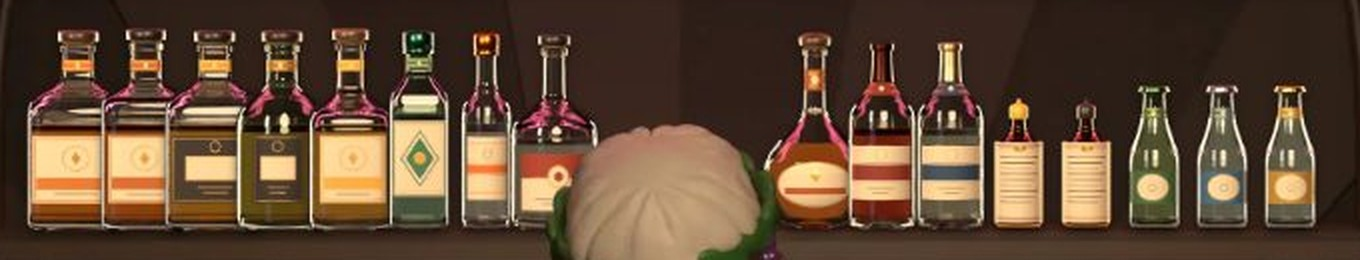
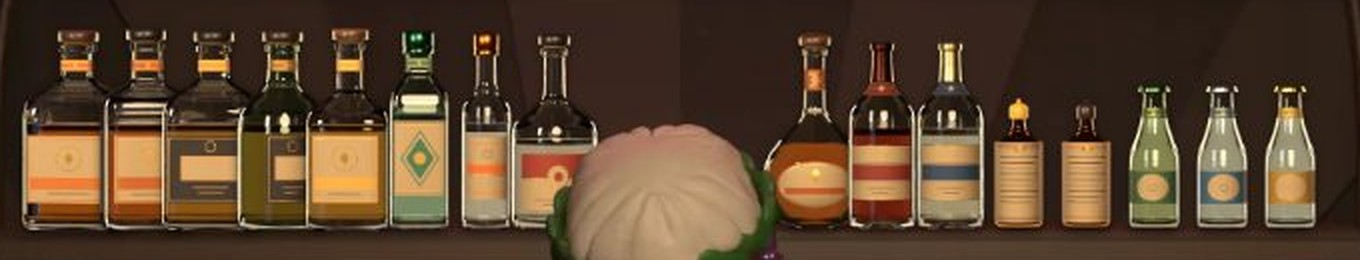
Prototype E: re-render the backgrounds with the fixed items' shadows, reshoot, and before/after crops
Claude-Session: https://claude.ai/code/session_017R8H9itpLZ3XvmvTMCx8dX

diff --git a/prototypes/e-rendered/layers.js b/prototypes/e-rendered/layers.js
@@ -359,4 +359,4 @@ const LAYERS = {
   "quick": false
  }
 };
-const RENDER_LOG = [{"layer": "panther_preview", "px": [1313, 1352], "samples": 48, "seconds": 33.8}, {"layer": "bg_bar", "px": [2000, 2000], "samples": 64, "seconds": 311.0}, {"layer": "bg_sign", "px": [1480, 460], "samples": 64, "seconds": 63.4}, {"layer": "bg_shelf", "px": [1672, 1065], "samples": 64, "seconds": 178.5}, {"layer": "bg_mid", "px": [2222, 1232], "samples": 64, "seconds": 243.6}, {"layer": "bg_menu", "px": [1380, 1080], "samples": 48, "seconds": 108.7}, {"layer": "bg_sign_off", "px": [1480, 460], "samples": 64, "seconds": 54.1}, {"layer": "b_bourbon", "px": [182, 292], "samples": 160, "seconds": 17.4}, {"layer": "b_rye", "px": [158, 294], "samples": 160, "seconds": 9.2}, {"layer": "b_blended_scotch", "px": [169, 292], "samples": 160, "seconds": 16.6}, {"layer": "b_islay_scotch", "px": [174, 292], "samples": 160, "seconds": 8.1}, {"layer": "b_irish_whiskey", "px": [156, 294], "samples": 160, "seconds": 11.4}, {"layer": "b_london_dry_gin", "px": [112, 289], "samples": 160, "seconds": 7.6}, {"layer": "b_white_rum", "px": [156, 285], "samples": 160, "seconds": 7.4}, {"layer": "b_tequila", "px": [129, 294], "samples": 160, "seconds": 10.1}, {"layer": "b_vodka", "px": [103, 286], "samples": 160, "seconds": 7.9}, {"layer": "b_cognac", "px": [176, 289], "samples": 160, "seconds": 7.1}, {"layer": "b_sweet_vermouth", "px": [123, 274], "samples": 160, "seconds": 8.9}, {"layer": "b_dry_vermouth", "px": [122, 274], "samples": 160, "seconds": 8.9}, {"layer": "b_campari", "px": [123, 274], "samples": 160, "seconds": 6.0}, {"layer": "b_aperol", "px": [125, 274], "samples": 160, "seconds": 6.0}, {"layer": "b_amaro_nonino", "px": [124, 274], "samples": 160, "seconds": 5.9}, {"layer": "b_triple_sec", "px": [100, 286], "samples": 160, "seconds": 5.3}, {"layer": "b_amaretto", "px": [170, 289], "samples": 160, "seconds": 14.7}, {"layer": "b_cherry_heering", "px": [178, 289], "samples": 160, "seconds": 6.4}, {"layer": "b_ginger_wine", "px": [122, 274], "samples": 160, "seconds": 5.7}, {"layer": "b_coffee_liqueur", "px": [154, 285], "samples": 160, "seconds": 13.0}, {"layer": "b_angostura_bitters", "px": [96, 201], "samples": 160, "seconds": 2.7}, {"layer": "b_orange_bitters", "px": [95, 201], "samples": 160, "seconds": 2.2}, {"layer": "b_ginger_ale", "px": [101, 218], "samples": 160, "seconds": 4.2}, {"layer": "b_ginger_beer", "px": [98, 218], "samples": 160, "seconds": 3.9}, {"layer": "b_soda_water", "px": [102, 218], "samples": 160, "seconds": 8.3}, {"layer": "b_tonic_water", "px": [100, 218], "samples": 160, "seconds": 8.2}, {"layer": "t_menu", "px": [814, 833], "samples": 64, "seconds": 47.2}, {"layer": "t_honey", "px": [371, 570], "samples": 64, "seconds": 24.7}, {"layer": "t_dice", "px": [451, 310], "samples": 64, "seconds": 10.1}, {"layer": "t_panther", "px": [788, 811], "samples": 64, "seconds": 28.7}];
+const RENDER_LOG = [{"layer": "panther_preview", "px": [1313, 1352], "samples": 48, "seconds": 33.8}, {"layer": "b_bourbon", "px": [182, 292], "samples": 160, "seconds": 17.4}, {"layer": "b_rye", "px": [158, 294], "samples": 160, "seconds": 9.2}, {"layer": "b_blended_scotch", "px": [169, 292], "samples": 160, "seconds": 16.6}, {"layer": "b_islay_scotch", "px": [174, 292], "samples": 160, "seconds": 8.1}, {"layer": "b_irish_whiskey", "px": [156, 294], "samples": 160, "seconds": 11.4}, {"layer": "b_london_dry_gin", "px": [112, 289], "samples": 160, "seconds": 7.6}, {"layer": "b_white_rum", "px": [156, 285], "samples": 160, "seconds": 7.4}, {"layer": "b_tequila", "px": [129, 294], "samples": 160, "seconds": 10.1}, {"layer": "b_vodka", "px": [103, 286], "samples": 160, "seconds": 7.9}, {"layer": "b_cognac", "px": [176, 289], "samples": 160, "seconds": 7.1}, {"layer": "b_sweet_vermouth", "px": [123, 274], "samples": 160, "seconds": 8.9}, {"layer": "b_dry_vermouth", "px": [122, 274], "samples": 160, "seconds": 8.9}, {"layer": "b_campari", "px": [123, 274], "samples": 160, "seconds": 6.0}, {"layer": "b_aperol", "px": [125, 274], "samples": 160, "seconds": 6.0}, {"layer": "b_amaro_nonino", "px": [124, 274], "samples": 160, "seconds": 5.9}, {"layer": "b_triple_sec", "px": [100, 286], "samples": 160, "seconds": 5.3}, {"layer": "b_amaretto", "px": [170, 289], "samples": 160, "seconds": 14.7}, {"layer": "b_cherry_heering", "px": [178, 289], "samples": 160, "seconds": 6.4}, {"layer": "b_ginger_wine", "px": [122, 274], "samples": 160, "seconds": 5.7}, {"layer": "b_coffee_liqueur", "px": [154, 285], "samples": 160, "seconds": 13.0}, {"layer": "b_angostura_bitters", "px": [96, 201], "samples": 160, "seconds": 2.7}, {"layer": "b_orange_bitters", "px": [95, 201], "samples": 160, "seconds": 2.2}, {"layer": "b_ginger_ale", "px": [101, 218], "samples": 160, "seconds": 4.2}, {"layer": "b_ginger_beer", "px": [98, 218], "samples": 160, "seconds": 3.9}, {"layer": "b_soda_water", "px": [102, 218], "samples": 160, "seconds": 8.3}, {"layer": "b_tonic_water", "px": [100, 218], "samples": 160, "seconds": 8.2}, {"layer": "t_menu", "px": [814, 833], "samples": 64, "seconds": 47.2}, {"layer": "t_honey", "px": [371, 570], "samples": 64, "seconds": 24.7}, {"layer": "t_dice", "px": [451, 310], "samples": 64, "seconds": 10.1}, {"layer": "t_panther", "px": [788, 811], "samples": 64, "seconds": 28.7}, {"layer": "bg_bar", "px": [2000, 2000], "samples": 64, "seconds": 265.5}, {"layer": "bg_sign", "px": [1480, 460], "samples": 64, "seconds": 55.7}, {"layer": "bg_shelf", "px": [1672, 1065], "samples": 64, "seconds": 148.4}, {"layer": "bg_mid", "px": [2222, 1232], "samples": 64, "seconds": 219.1}, {"layer": "bg_menu", "px": [1380, 1080], "samples": 48, "seconds": 99.6}, {"layer": "bg_sign_off", "px": [1480, 460], "samples": 64, "seconds": 52.1}];
